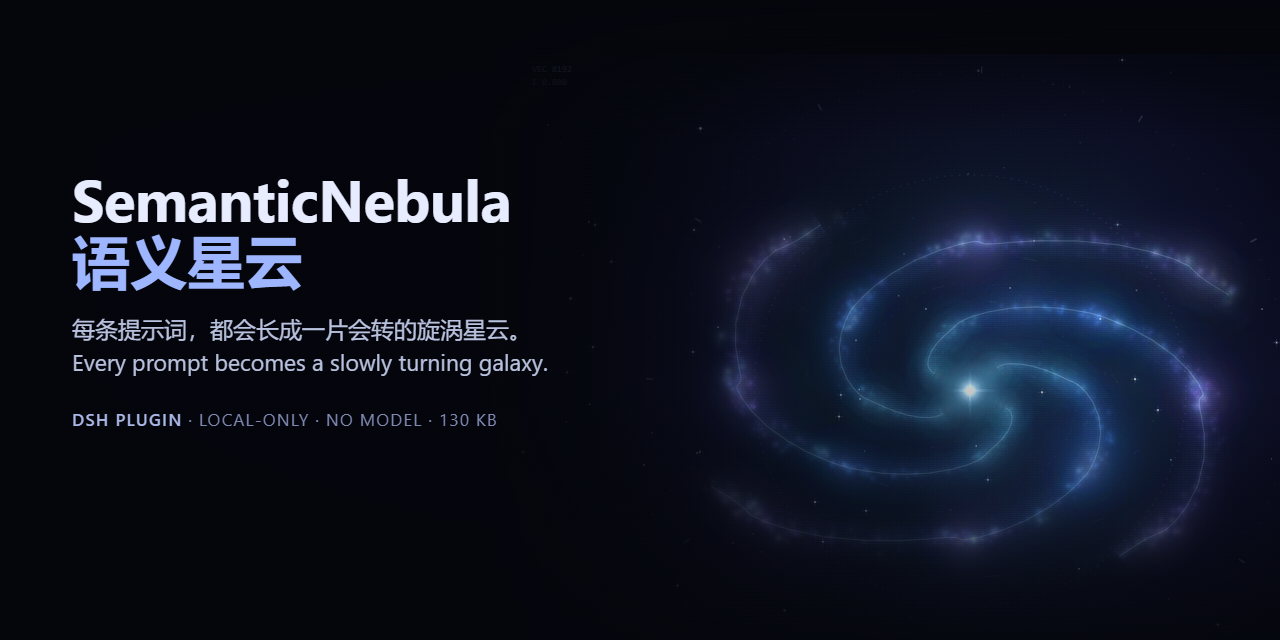
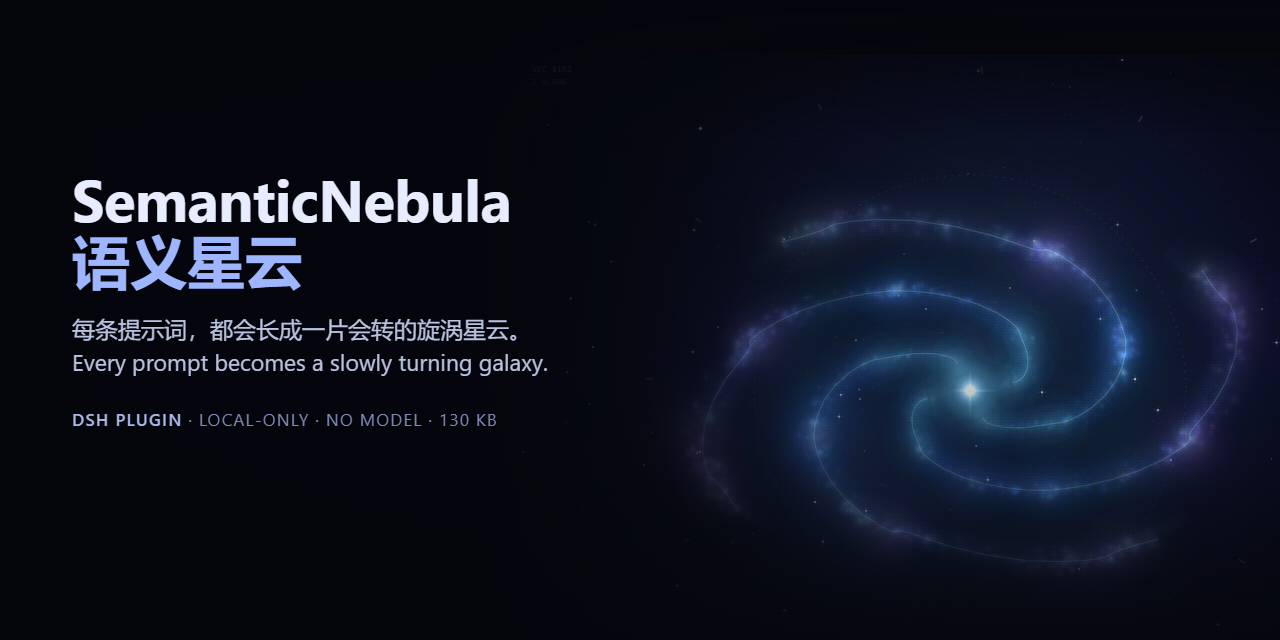
fix: make the arms trail the spin instead of leading it
With `angle` growing (clockwise on screen) the winding term `t * 4` made the
arm's theta grow outward as well, so the outer end crossed any given azimuth
before the inner one: that is a leading arm, an arm outrunning the rotation it
belongs to. Real discs trail - differential rotation shears a radial spoke into
one handedness only - so the sign is flipped.

- the winding lives in one constant, `WIND = -4`, instead of six `t * 4` sites;
- the profile-driven pitch wobble follows that sign (`WIND_WOBBLE`). Fixed
  positive it fought the reversed winding at some radii and folded the arm into
  cusps, which showed up as straightened, creased ribbons along the bright spine;
- the lane offset is now `WIND * 0.04`, still one side of the arm but the wake
  side;
- `icon.svg` is mirrored to match.

The physics test asserted the old sign, so it had certified the bug: it now
requires a negative slope of the 4th-harmonic phase against radius and prints
the measured value (-227 deg per disc radius). Spin (5.0 deg/s clockwise),
winding magnitude, parallax, trails, meteors and 60 fps are unchanged; the
picture is a mirror image of the previous one and the assets were repainted.

diff --git a/src/client/NebulaCanvas.tsx b/src/client/NebulaCanvas.tsx
@@ -52,13 +52,38 @@ const STAR_TINTS = ['#dfeaff', '#bcd7ff', '#ffe9c9', '#ffffff'] as const
 const PERSPECTIVE = 0.64
 
 /**
+ * Sign of the outward arm winding, in radians per disc radius.
+ *
+ * The pattern turns with +theta, and on a y-down canvas +theta is clockwise.
+ * A trailing arm therefore has to reach *backwards* as it grows: at a larger
+ * radius it sits at a smaller theta than at a smaller one, i.e. behind the
+ * spin, the way a wake sits behind a hull. So the slope is negative — with a
+ * positive slope the outer tip would arrive at any given azimuth before the
+ * inner part and the arms would lead the rotation, which no real disc does
+ * (the classic winding argument: differential rotation shears a radial spoke
+ * into exactly this trailing shape, never the opposite one).
+ */
+const WIND = -4
+
+/**
+ * Pitch wobble driven by the brightness profile, in radians.
+ *
+ * It has to follow the winding sign: the profile value is coherent across the
+ * disc, so a fixed positive offset would fight the (now negative) winding at
+ * some radii and fold the arm back on itself, which showed up as cusps and
+ * near-straight facets along the bright spine. Signed with `WIND`, the wobble
+ * only varies the pitch and the arm stays monotonic.
+ */
+const WIND_WOBBLE = WIND * 0.0875
+
+/**
  * The main radial nebula: profile-driven spiral arms, additive light, HUD rings.
  *
- * Rotation follows the two invariants of a real spiral disc. The arms wind in
- * the same direction the pattern turns, so they always trail the spin; and the
- * material inside the disc shears ahead of the rigid density wave, so the core
- * turns fastest. Every layer adds a positive multiple of `angle`, which is why
- * no part of the nebula can ever read as counter-rotating.
+ * Rotation follows the two invariants of a real spiral disc. The arms reach
+ * backwards against the turn (`WIND` is negative), so they always trail the
+ * spin; and the material inside the disc shears ahead of the rigid density
+ * wave, so the core turns fastest. Every layer adds a positive multiple of
+ * `angle`, which is why no part of the nebula can ever read as counter-rotating.
  */
 export function NebulaCanvas({ face, point, settings, playing }: NebulaCanvasProps): React.ReactElement {
   const hostRef = useRef<HTMLDivElement>(null)
@@ -285,9 +310,10 @@ export function NebulaCanvas({ face, point, settings, playing }: NebulaCanvasPro
       }
 
       // One angular velocity only, always positive: the density-wave pattern
-      // turns as a rigid body and `theta` winds outward in the same direction,
-      // so the arms trail the spin (a leading arm is not physical). Reduced
-      // motion keeps a bare whisper of drift instead of freezing the canvas.
+      // turns as a rigid body, while `theta` reaches backwards as it winds out
+      // (`WIND < 0`), so the arms trail the spin — a leading arm is not
+      // physical. Reduced motion keeps a bare whisper of drift instead of
+      // freezing the canvas.
       const speed = reduce ? 0.006 : 0.045 + magnitude * 0.08 + hoverGlow * 0.11
       angle += dt * speed
       const target = state.playing ? 1.16 : state.point === undefined ? 0.66 : 0.8 + magnitude * 0.28
@@ -333,7 +359,7 @@ export function NebulaCanvas({ face, point, settings, playing }: NebulaCanvasPro
 
       for (const cloud of clouds) {
         const pv = profile[cloud.band]!
-        const theta = cloud.arm * (TAU / 4) + cloud.t * 4 + pv * 0.35 + angle * 0.8 + Math.sin(cloud.t * 17 + cloud.arm) * 0.035
+        const theta = cloud.arm * (TAU / 4) + cloud.t * WIND + pv * WIND_WOBBLE + angle * 0.8 + Math.sin(cloud.t * 17 + cloud.arm) * 0.035
         const r = radius * (0.06 + cloud.t * 1.02) * (0.92 + pv * 0.16) * (1 + Math.sin(cloud.t * 23 + cloud.arm * 2) * 0.025)
         const x = cx + Math.cos(theta) * r
         const y = cy + Math.sin(theta) * r * PERSPECTIVE
@@ -363,7 +389,7 @@ export function NebulaCanvas({ face, point, settings, playing }: NebulaCanvasPro
         for (let step = 0; step <= 44; step++) {
           const t = 0.09 + (step / 44) * 0.91
           const pv = profile[Math.min(255, Math.floor(t * 255))]!
-          const theta = arm * (TAU / 4) + t * 4 + pv * 0.35 + angle * 0.8
+          const theta = arm * (TAU / 4) + t * WIND + pv * WIND_WOBBLE + angle * 0.8
           const r = radius * (0.06 + t * 1.02) * (0.92 + pv * 0.16)
           const x = cx + Math.cos(theta) * r
           const y = cy + Math.sin(theta) * r * PERSPECTIVE
@@ -386,7 +412,7 @@ export function NebulaCanvas({ face, point, settings, playing }: NebulaCanvasPro
         for (let step = 0; step <= 36; step++) {
           const t = 0.12 + (step / 36) * 0.88
           const pv = profile[Math.min(255, Math.floor(t * 255))]!
-          const theta = arm * (TAU / 4) + t * 4 + pv * 0.35 + angle * 0.8 + 0.16
+          const theta = arm * (TAU / 4) + t * WIND + pv * WIND_WOBBLE + angle * 0.8 + WIND * 0.04
           const r = radius * (0.06 + t * 1.02) * (0.92 + pv * 0.16) * 0.99
           const x = cx + Math.cos(theta) * r
           const y = cy + Math.sin(theta) * r * PERSPECTIVE
@@ -406,7 +432,7 @@ export function NebulaCanvas({ face, point, settings, playing }: NebulaCanvasPro
         for (let step = 0; step <= 80; step++) {
           const t = 0.05 + (step / 80) * 0.95
           const pv = profile[Math.min(255, Math.floor(t * 255))]!
-          const theta = arm * (TAU / 4) + t * 4 + pv * 0.35 + angle * 0.8 + Math.sin(t * 9 + arm) * 0.018
+          const theta = arm * (TAU / 4) + t * WIND + pv * WIND_WOBBLE + angle * 0.8 + Math.sin(t * 9 + arm) * 0.018
           const r = radius * (0.06 + t * 1.02) * (0.92 + pv * 0.16) * (1 + Math.sin(t * 7 + arm) * 0.018)
           const x = cx + Math.cos(theta) * r
           const y = cy + Math.sin(theta) * r * PERSPECTIVE
@@ -426,7 +452,7 @@ export function NebulaCanvas({ face, point, settings, playing }: NebulaCanvasPro
       for (let index = 0; index < armCount; index++) {
         const particle = arms[index]!
         const pv = profile[particle.band]!
-        const theta = particle.arm * (TAU / 4) + particle.t * 4 + pv * 0.35 + particle.jitter + angle * 0.8
+        const theta = particle.arm * (TAU / 4) + particle.t * WIND + pv * WIND_WOBBLE + particle.jitter + angle * 0.8
         const r = radius * (0.06 + particle.t * 1.02) * (0.92 + pv * 0.16) * (1 + particle.radial)
         const wobble = 1 + Math.sin(now * 0.0008 + particle.wobble) * 0.008
         const x = cx + Math.cos(theta) * r * wobble
@@ -463,7 +489,7 @@ export function NebulaCanvas({ face, point, settings, playing }: NebulaCanvasPro
           const k = (now * 0.000075 + bead / 4) % 1
           const t = 0.16 + k * 0.78
           const pv = profile[Math.min(255, Math.floor(t * 255))]!
-          const theta = bead * (TAU / 4) + t * 4 + pv * 0.35 + angle * 0.8
+          const theta = bead * (TAU / 4) + t * WIND + pv * WIND_WOBBLE + angle * 0.8
           const r = radius * (0.06 + t * 1.02) * (0.92 + pv * 0.16)
           const size = radius * (0.075 - k * 0.02)
           ctx.globalAlpha = Math.sin(Math.PI * k) * 0.13 * (0.35 + enter * 0.65)

diff --git a/lib/client.js b/lib/client.js
@@ -1100,6 +1100,8 @@ var SpriteCache = class {
 var import_jsx_runtime = require("react/jsx-runtime");
 var STAR_TINTS = ["#dfeaff", "#bcd7ff", "#ffe9c9", "#ffffff"];
 var PERSPECTIVE = 0.64;
+var WIND = -4;
+var WIND_WOBBLE = WIND * 0.0875;
 function NebulaCanvas({ face, point, settings, playing }) {
   const hostRef = (0, import_react.useRef)(null);
   const canvasRef = (0, import_react.useRef)(null);
@@ -1336,7 +1338,7 @@ function NebulaCanvas({ face, point, settings, playing }) {
       ctx.fillRect(0, 0, width, height);
       for (const cloud of clouds) {
         const pv = profile[cloud.band];
-        const theta = cloud.arm * (TAU / 4) + cloud.t * 4 + pv * 0.35 + angle * 0.8 + Math.sin(cloud.t * 17 + cloud.arm) * 0.035;
+        const theta = cloud.arm * (TAU / 4) + cloud.t * WIND + pv * WIND_WOBBLE + angle * 0.8 + Math.sin(cloud.t * 17 + cloud.arm) * 0.035;
         const r = radius * (0.06 + cloud.t * 1.02) * (0.92 + pv * 0.16) * (1 + Math.sin(cloud.t * 23 + cloud.arm * 2) * 0.025);
         const x = cx + Math.cos(theta) * r;
         const y = cy + Math.sin(theta) * r * PERSPECTIVE;
@@ -1359,7 +1361,7 @@ function NebulaCanvas({ face, point, settings, playing }) {
         for (let step = 0; step <= 44; step++) {
           const t = 0.09 + step / 44 * 0.91;
           const pv = profile[Math.min(255, Math.floor(t * 255))];
-          const theta = arm * (TAU / 4) + t * 4 + pv * 0.35 + angle * 0.8;
+          const theta = arm * (TAU / 4) + t * WIND + pv * WIND_WOBBLE + angle * 0.8;
           const r = radius * (0.06 + t * 1.02) * (0.92 + pv * 0.16);
           const x = cx + Math.cos(theta) * r;
           const y = cy + Math.sin(theta) * r * PERSPECTIVE;
@@ -1380,7 +1382,7 @@ function NebulaCanvas({ face, point, settings, playing }) {
         for (let step = 0; step <= 36; step++) {
           const t = 0.12 + step / 36 * 0.88;
           const pv = profile[Math.min(255, Math.floor(t * 255))];
-          const theta = arm * (TAU / 4) + t * 4 + pv * 0.35 + angle * 0.8 + 0.16;
+          const theta = arm * (TAU / 4) + t * WIND + pv * WIND_WOBBLE + angle * 0.8 + WIND * 0.04;
           const r = radius * (0.06 + t * 1.02) * (0.92 + pv * 0.16) * 0.99;
           const x = cx + Math.cos(theta) * r;
           const y = cy + Math.sin(theta) * r * PERSPECTIVE;
@@ -1398,7 +1400,7 @@ function NebulaCanvas({ face, point, settings, playing }) {
         for (let step = 0; step <= 80; step++) {
           const t = 0.05 + step / 80 * 0.95;
           const pv = profile[Math.min(255, Math.floor(t * 255))];
-          const theta = arm * (TAU / 4) + t * 4 + pv * 0.35 + angle * 0.8 + Math.sin(t * 9 + arm) * 0.018;
+          const theta = arm * (TAU / 4) + t * WIND + pv * WIND_WOBBLE + angle * 0.8 + Math.sin(t * 9 + arm) * 0.018;
           const r = radius * (0.06 + t * 1.02) * (0.92 + pv * 0.16) * (1 + Math.sin(t * 7 + arm) * 0.018);
           const x = cx + Math.cos(theta) * r;
           const y = cy + Math.sin(theta) * r * PERSPECTIVE;
@@ -1416,7 +1418,7 @@ function NebulaCanvas({ face, point, settings, playing }) {
       for (let index = 0; index < armCount; index++) {
         const particle = arms[index];
         const pv = profile[particle.band];
-        const theta = particle.arm * (TAU / 4) + particle.t * 4 + pv * 0.35 + particle.jitter + angle * 0.8;
+        const theta = particle.arm * (TAU / 4) + particle.t * WIND + pv * WIND_WOBBLE + particle.jitter + angle * 0.8;
         const r = radius * (0.06 + particle.t * 1.02) * (0.92 + pv * 0.16) * (1 + particle.radial);
         const wobble = 1 + Math.sin(now * 8e-4 + particle.wobble) * 8e-3;
         const x = cx + Math.cos(theta) * r * wobble;
@@ -1449,7 +1451,7 @@ function NebulaCanvas({ face, point, settings, playing }) {
           const k = (now * 75e-6 + bead / 4) % 1;
           const t = 0.16 + k * 0.78;
           const pv = profile[Math.min(255, Math.floor(t * 255))];
-          const theta = bead * (TAU / 4) + t * 4 + pv * 0.35 + angle * 0.8;
+          const theta = bead * (TAU / 4) + t * WIND + pv * WIND_WOBBLE + angle * 0.8;
           const r = radius * (0.06 + t * 1.02) * (0.92 + pv * 0.16);
           const size = radius * (0.075 - k * 0.02);
           ctx.globalAlpha = Math.sin(Math.PI * k) * 0.13 * (0.35 + enter * 0.65);

diff --git a/README.en.md b/README.en.md
@@ -68,10 +68,12 @@ Both canvases stay dark in either appearance: space is always dark outside the p
 
 The picture obeys the two basic constraints of a spiral galaxy, and no layer ever counter-rotates:
 
-- **Trailing arms** — the arms wind in the same direction the pattern spins (θ grows outward while `angle` increases monotonically), so the arms always trail the spin instead of reading as "spinning apart".
+- **Trailing arms** — `angle` grows monotonically (clockwise on screen) while the arm's `theta` gets *smaller* as it winds out (`WIND = -4`), so the outer end always sits one step of phase behind the inner one: the arm is the wake behind the spin. Flip the sign and the outer tip would cross any given azimuth before the inner part — that is a **leading** arm, an arm outrunning the rotation it belongs to.
 - **Rigid pattern, differential material** — the density wave itself rotates rigidly at one angular velocity, while the inner filaments run a little faster (`angle * 1.12`) and the outer motes a little slower (`angle * 0.25`): differential rotation, without winding the arms ever tighter.
 
-Earlier the `iris` / `ember` families flipped direction by `scheme.id`, pairing counter-clockwise spin with clockwise arms, and the angular velocity would jump whenever a roam crossed a frame (`mix` past 0.5) or the palette changed. Now `angle` is the single source of angular velocity: it accumulates monotonically, frame after frame, independent of the current palette.
+Why trailing and not leading: nearly every real spiral (M51, M101, …) trails. The classic argument is simple — differential rotation, fast inside and slow outside, shears a radial spoke into a curve with exactly one handedness, the trailing one; leading arms need an external disturbance and are the exception (NGC 4622 is the famous one). So trailing is both the physical answer and the one that reads like a galaxy.
+
+Earlier the `iris` / `ember` families flipped direction by `scheme.id`, pairing counter-clockwise spin with clockwise arms, and the angular velocity would jump whenever a roam crossed a frame (`mix` past 0.5) or the palette changed. Now `angle` is the single source of angular velocity: it accumulates monotonically, frame after frame, independent of the current palette. The handedness is no longer a `t * 4` scattered through the draw loop either — it lives in one constant, `WIND`, and the physics regression asserts its sign.
 
 Every bright point leaves a short **motion trail** along its orbit (`theta − 0.022`), so the trailing direction is readable without the HUD. Under `prefers-reduced-motion` the trails, parallax, breathing, meteors, beads and ripples are all disabled and the grain is skipped — the disc keeps a very slow drift instead of freezing into a still image.
 

diff --git a/README.md b/README.md
@@ -68,10 +68,12 @@ pnpm add /path/to/dsh-spiral
 
 画面遵循旋涡星系的两条基本约束，任何图层都不会反向自转：
 
-- **拖尾旋臂**：旋臂的缠绕方向与自转方向一致（越往外 `theta` 越大、`angle` 单调递增），所以臂始终拖在旋转后面，不会读成「边转边散开」。
+- **拖尾旋臂**：`angle` 单调递增（屏幕上是顺时针），而旋臂的 `theta` 越往外**越小**（`WIND = -4`），外端永远比内端落后一个相位，所以臂是拖在旋转后面的尾迹。反过来说，若越往外 `theta` 越大，外端就会先于内端扫过任意一个方位角 —— 那是**前导臂**，等于让旋臂抢在自转前面跑。
 - **刚性图案 + 差速物质**：作为密度波的整体图案以同一角速度刚性旋转；内圈细丝略快（`angle * 1.12`）、外圈浮尘略慢（`angle * 0.25`），体现「内快外慢」的差速旋转，又不会把旋臂越缠越紧。
 
-此前 `iris` / `ember` 两个族按 `scheme.id` 翻转方向、以逆时针自转与顺时针缠绕的旋臂对冲，而且漫游跨帧（`mix` 过 0.5）与切换配色时会瞬间反转角速度；现在 `angle` 是唯一的角速度来源，逐帧单调累加，方向不再依赖当前配色。
+为什么不选前导臂：真实旋涡星系（M51、M101 这些都算）几乎全是拖尾的。经典论证很直白 —— 差速旋转（内快外慢）会把一条径向辐条越剪越弯，剪出来的形状只有一个手性，就是拖尾；要得到前导臂得靠外部扰动，是 NGC 4622 那样的特例。所以拖尾同时也是「看起来最像星系」的那一手。
+
+此前 `iris` / `ember` 两个族按 `scheme.id` 翻转方向、以逆时针自转与顺时针缠绕的旋臂对冲，而且漫游跨帧（`mix` 过 0.5）与切换配色时会瞬间反转角速度；现在 `angle` 是唯一的角速度来源，逐帧单调累加，方向不再依赖当前配色。缠绕方向也不再是分散在各处的一堆 `t * 4`，而是集中在 `WIND` 一个常量上，物理回归测试直接断言这个符号。
 
 每个亮点会沿轨道方向留下一小段 **尾迹**（`theta − 0.022`），不看 HUD 也能读出拖尾方向；`prefers-reduced-motion` 下尾迹、视差、呼吸、流星、光点与涟漪全部关闭，颗粒也不再叠加，只保留极慢漂移，而不是冻成静图。
 
